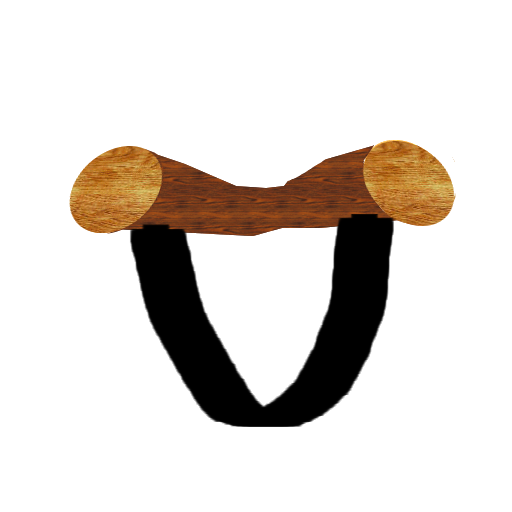
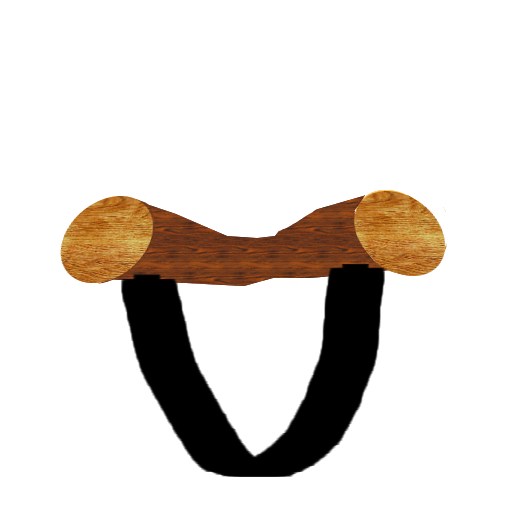
Add animated move for player

Changed region(s): [[0.0938, 0.25, 0.9062, 0.9375]]

diff --git a/Juma/src/juma/window.java b/Juma/src/juma/window.java
@@ -56,7 +56,7 @@ public class window {
             System.exit(0);
         }
         Baground= Graphics.loadTexture("baground2");
-
+        Player.init();
         Shoot.CreateBall(0, 0);
         GL11.glMatrixMode(GL11.GL_PROJECTION);
         GL11.glLoadIdentity();
@@ -133,14 +133,10 @@ GL11.glEnd();
       static void printPlayer(){
          float Trot;
         Trot = 90-(float)(Math.atan2(Mouse.getY()-Player.Y,Mouse.getX()-Player.X))*180/(float)Math.PI;
-        // Trot=0;
            System.out.println(Trot);
-        Player.TexPlayer.bind();
         GL11.glEnable(GL11.GL_BLEND);
         GL11.glBlendFunc(GL11.GL_SRC_ALPHA, GL11.GL_ONE_MINUS_SRC_ALPHA);
         GL11.glColor4ub((byte) 255, (byte) 255, (byte)255, (byte)255); 
-             // GL11.glLoadIdentity(); 
-
         GL11.glMatrixMode(GL11.GL_MODELVIEW);
   GL11.glLoadIdentity();
   GL11.glDisable(GL11.GL_DEPTH_TEST);
@@ -148,8 +144,12 @@ GL11.glEnd();
   GL11.glPushMatrix();
   GL11.glTranslatef(Player.X, Player.Y, 0);
   GL11.glRotatef(Trot, 0, 0, 1);
-
-        Player.TexPlayer.bind();
+  double Dist=GetDistToPoint(Shoot.Ball.X,Shoot.Ball.Y,Player.X,Player.Y);
+        if(Shoot.ballToStartPos()){
+            Player.TexPlayer[0].bind();
+        } else if(Dist<70){
+            Player.TexPlayer[1].bind();
+        } else  Player.TexPlayer[2].bind();
         GL11.glBegin(GL11.GL_QUADS);
         GL11.glColor4f(1.0f,1.0f,1.0f,0.0f);        
         GL11.glTexCoord2f(0,0);
@@ -165,5 +165,8 @@ GL11.glEnd();
         
 GL11.glPopMatrix();
     }
+      static double GetDistToPoint(double X1, double Y1, double X2, double Y2){
+          return Math.sqrt(Math.pow(X1-X2, 2)+(Math.pow(Y1-Y2, 2)));
+      }
 }
 

diff --git a/Juma/src/juma/Player.java b/Juma/src/juma/Player.java
@@ -9,10 +9,14 @@ import org.newdawn.slick.opengl.Texture;
  * @author sosnov
  */
 public class Player {
-    static Texture TexPlayer=Graphics.loadTexture("rog1");
+    static Texture[] TexPlayer=new Texture[3];
     static final int X=window.Width/2;
     static final int Y=window.Height/2;
     static final int Size = 250;
-    
+    static void init(){
+        for (int i=0;i!=TexPlayer.length;++i){
+            TexPlayer[i]= Graphics.loadTexture("rog"+(i+1));
+        }
+    }
     
 }
